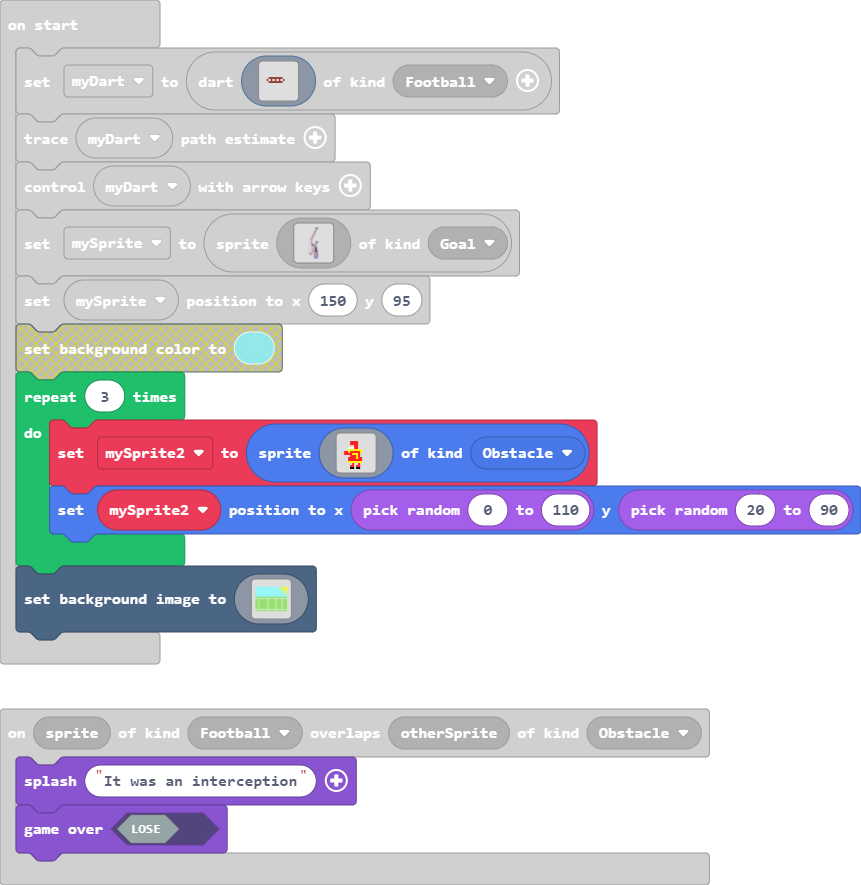
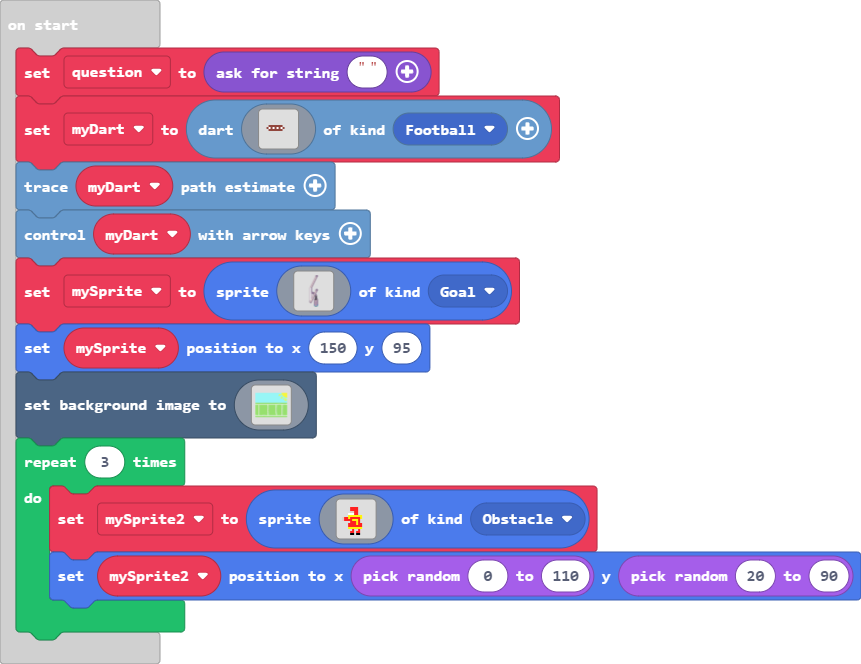
Update main.blocks, main.ts

diff --git a/main.ts b/main.ts
@@ -19,6 +19,7 @@ sprites.onOverlap(SpriteKind.Football, SpriteKind.Goal, function (sprite, otherS
 })
 let mySprite2: Sprite = null
 let myDart: Dart = null
+let question = game.askForString("")
 myDart = darts.create(img`
     . . . . . . . . . . . . . . . . 
     . . . . . . . . . . . . . . . . 
